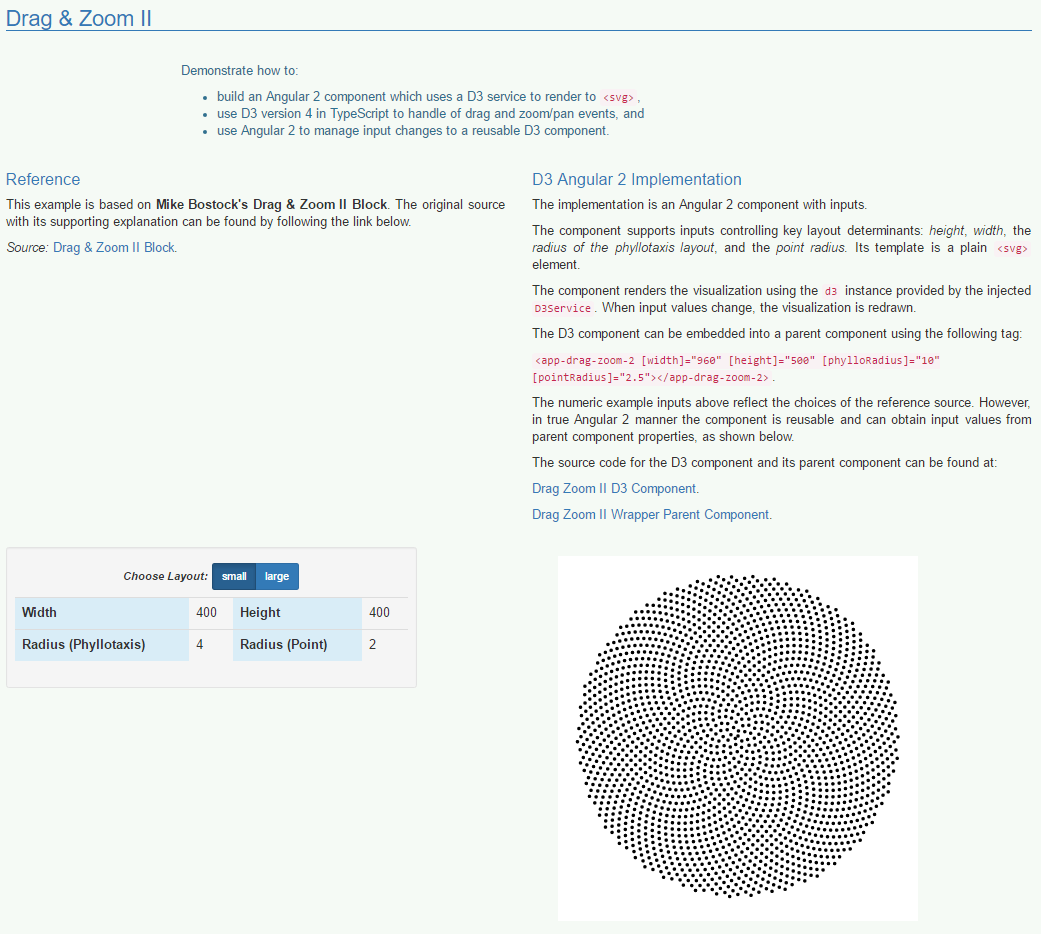
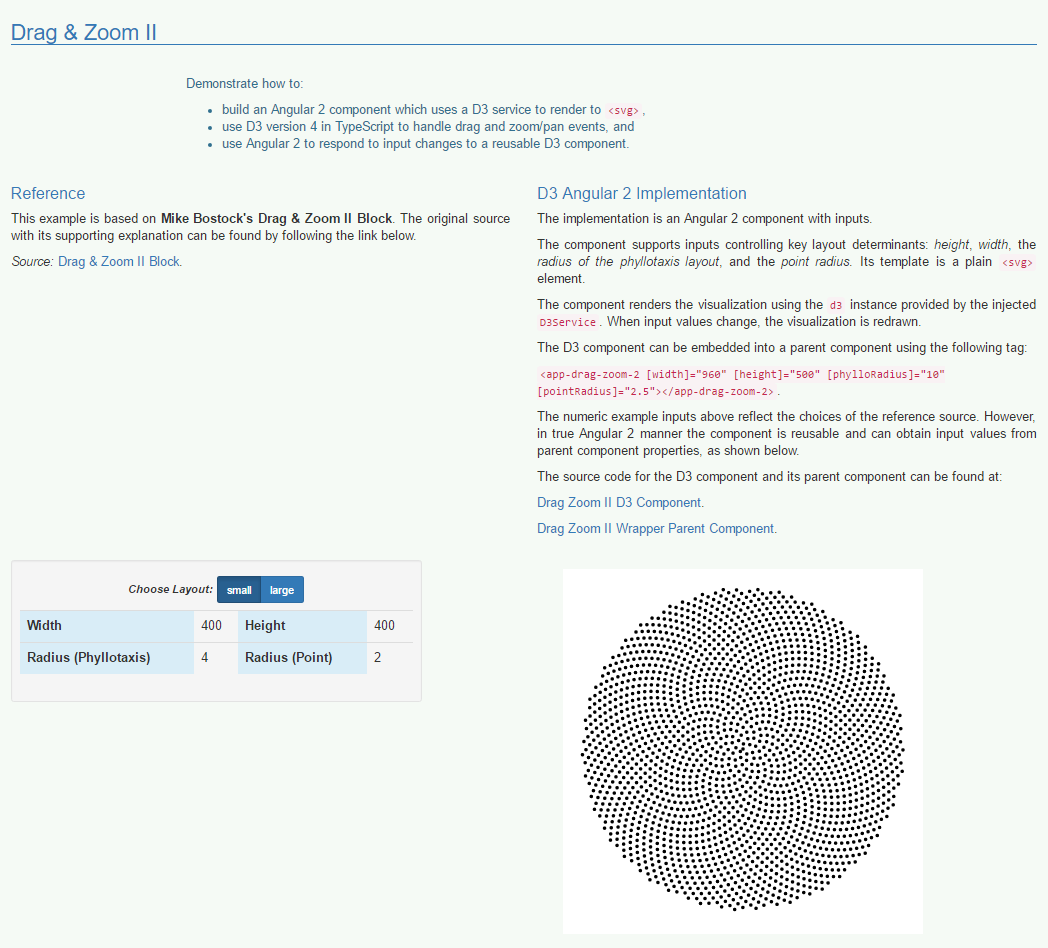
Typo Fix. * **[Fix](wrapper-drag-zoom-2.component)**: Fixed typo in intro section. Minor re-wording. Updated related screenshot used in README.

diff --git a/src/app/d3-demos/wrapper-drag-zoom-2/wrapper-drag-zoom-2.component.html b/src/app/d3-demos/wrapper-drag-zoom-2/wrapper-drag-zoom-2.component.html
@@ -14,10 +14,10 @@
           build an Angular 2 component which uses a D3 service to render to <code>&lt;svg&gt;</code>,
         </li>
         <li>
-          use D3 version 4 in TypeScript to handle of drag and zoom/pan events, and
+          use D3 version 4 in TypeScript to handle drag and zoom/pan events, and
         </li>
         <li>
-          use Angular 2 to manage input changes to a reusable D3 component.
+          use Angular 2 to respond to input changes to a reusable D3 component.
         </li>
       </ul>
     </div>
